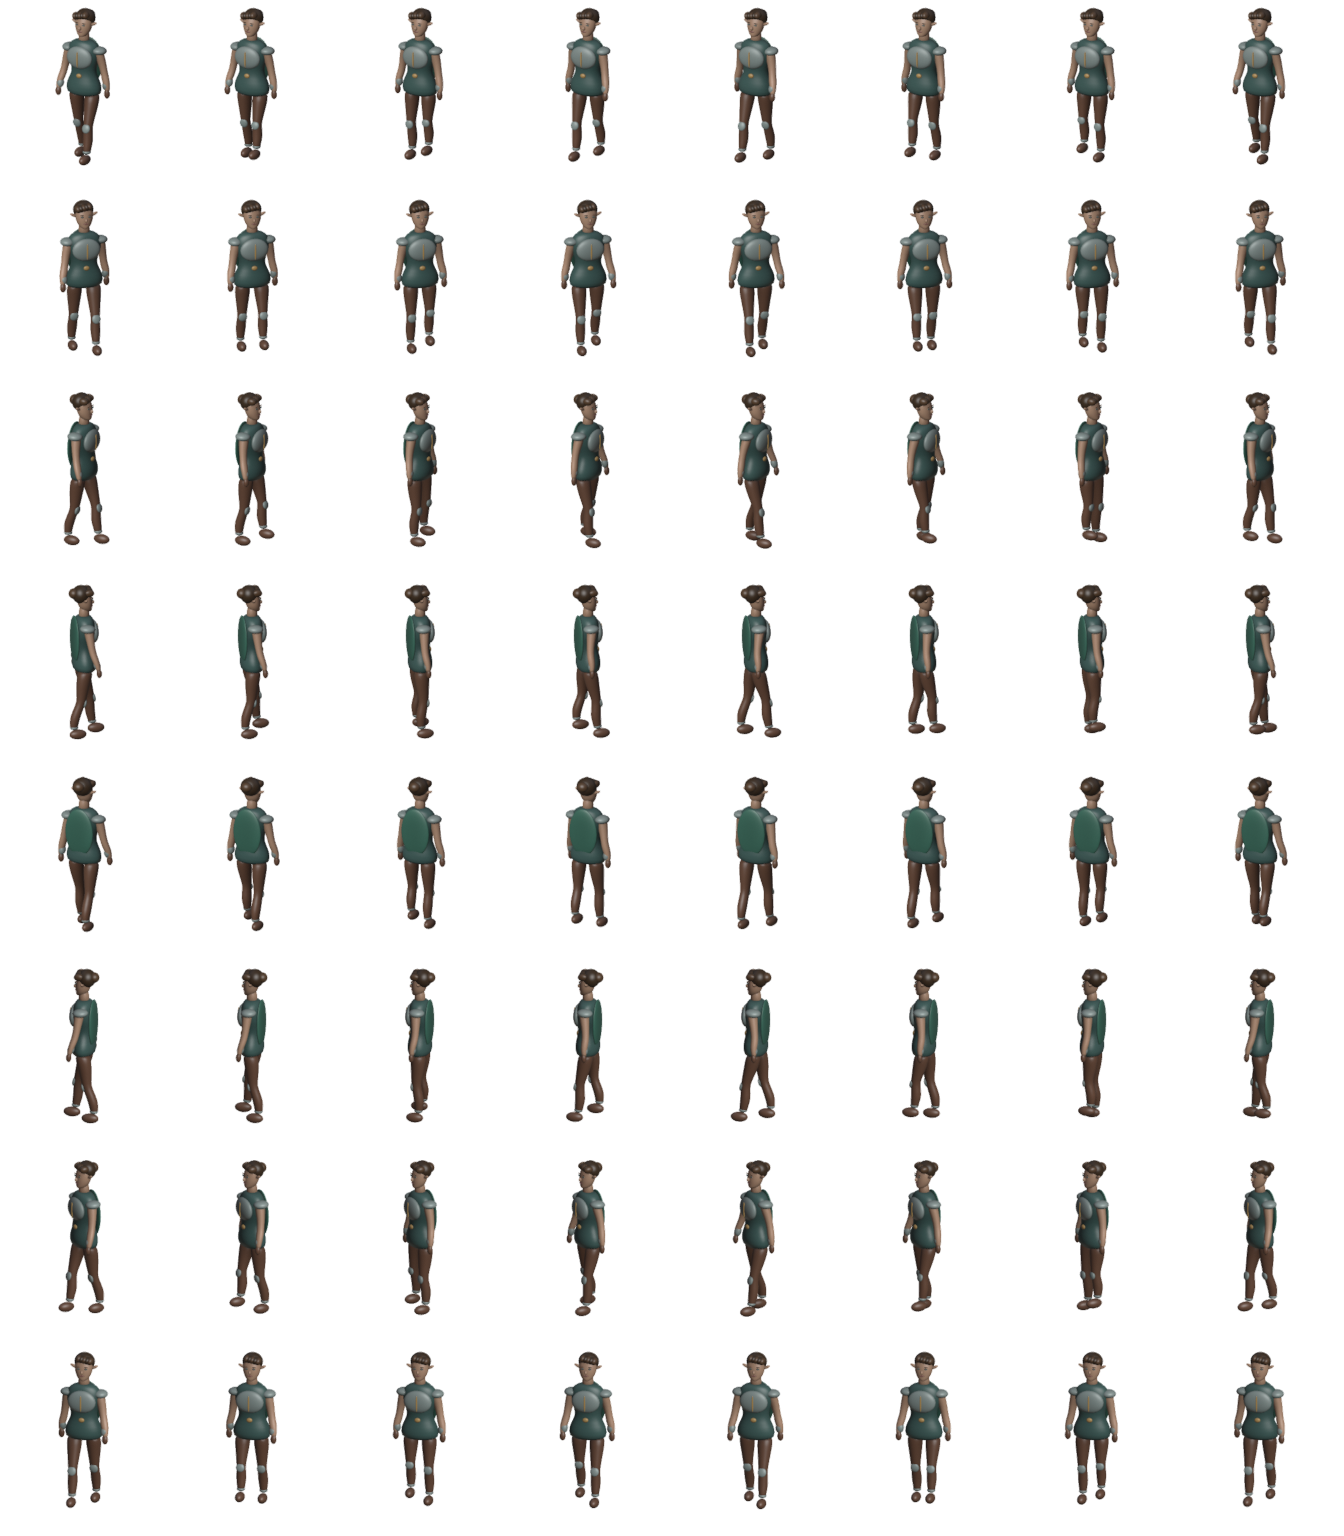
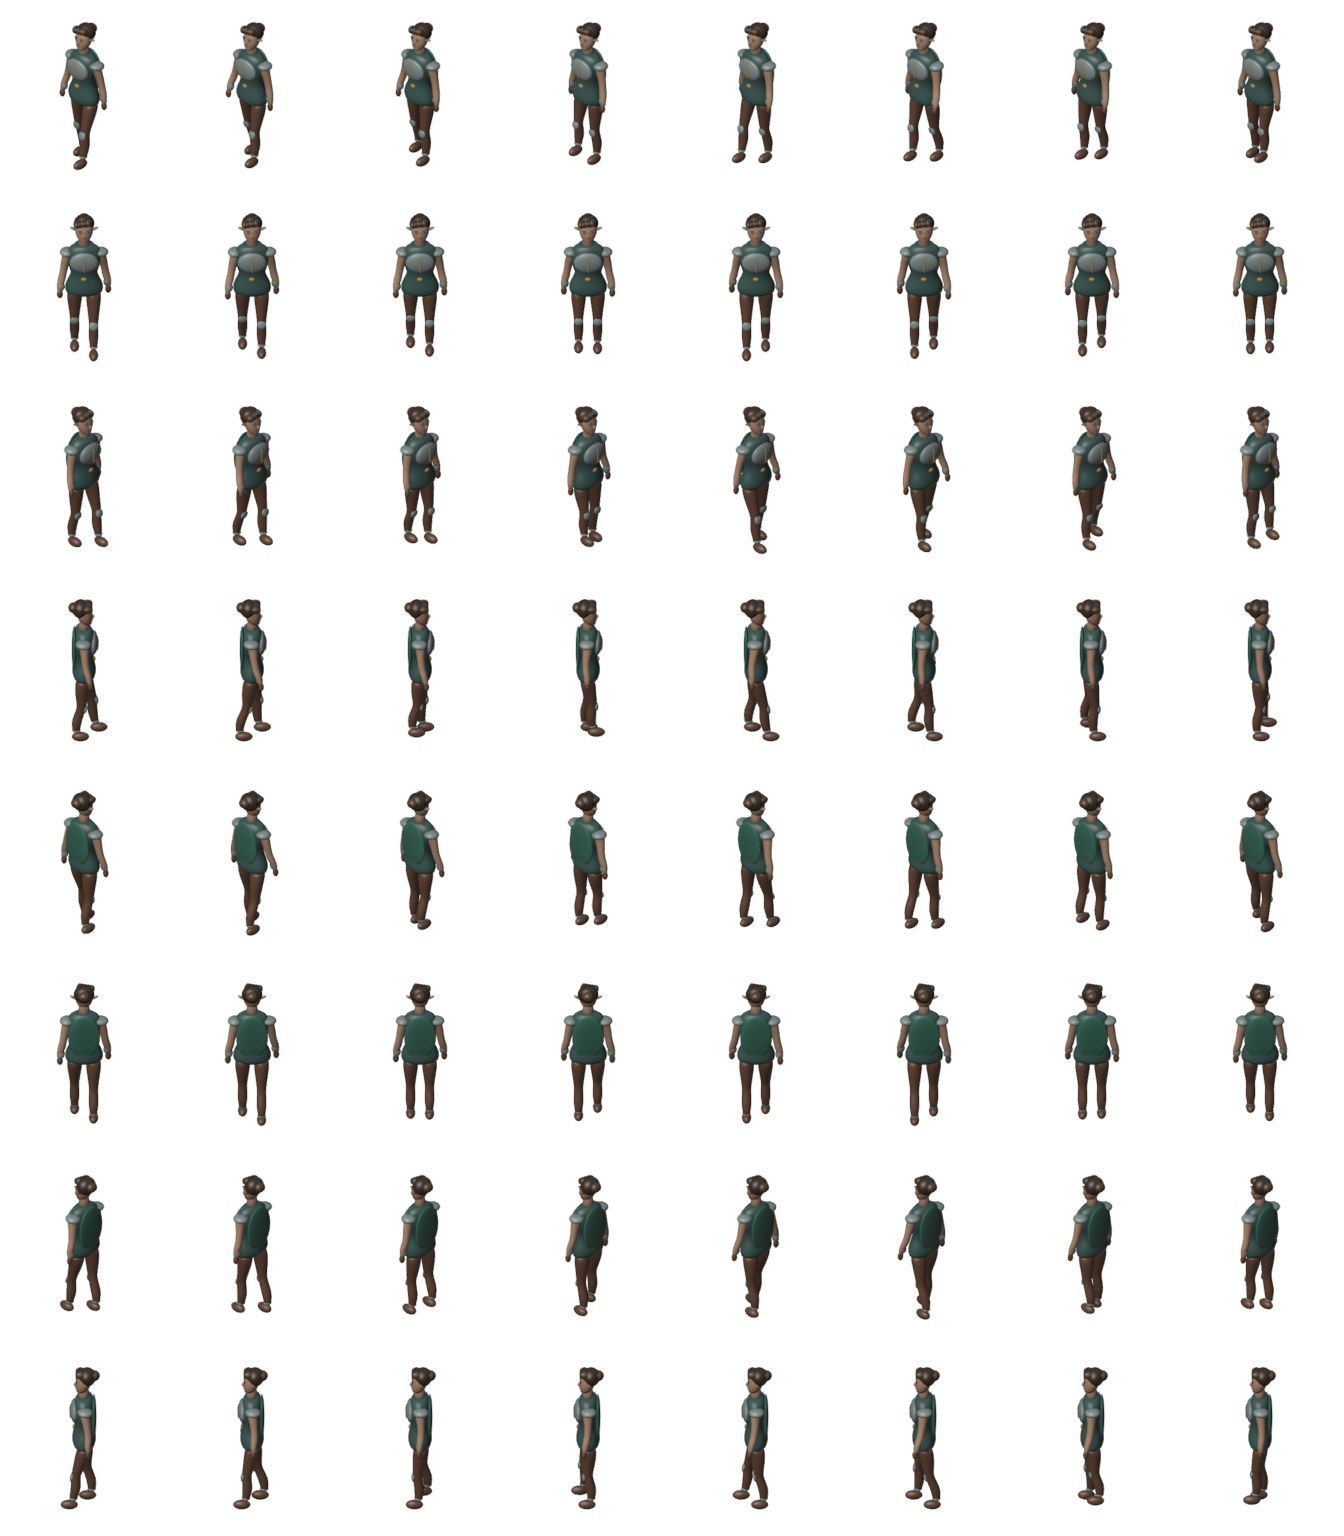
Align eight Free Roam facings and correct walk stride in v0.3.86

diff --git a/blender/create_character.py b/blender/create_character.py
@@ -138,13 +138,17 @@ world=bpy.context.scene.world
 world.color=(.32,.32,.32)
 bpy.ops.object.light_add(type="AREA",location=(2,-4,6))
 bpy.context.object.data.energy=600;bpy.context.object.data.shape="DISK";bpy.context.object.data.size=5
-bpy.ops.object.camera_add(location=(3.5,-6,3.2))
+# Match Free Roam: screen X is world X + Y and screen Y is world X - Y.
+# The ratio of the diamond half-height to its half-width gives the tilt.
+ground_ratio = 35.83905 / 70.0036
+tilt = math.asin(ground_ratio)
+bpy.ops.object.camera_add(location=(5,-5,1.13 + math.sqrt(50)*math.tan(tilt)))
 camera=bpy.context.object
 direction=Vector((0,0,1.13))-camera.location
 camera.rotation_euler=direction.to_track_quat("-Z","Y").to_euler()
 camera.data.type="ORTHO";camera.data.ortho_scale=2.69
 # Match the renderer's ground anchor at row 160 in each 192-pixel cell.
-camera.data.shift_y = -.05625
+camera.data.shift_y = (160-96)/192 - (1.13-.037)*math.cos(tilt)/2.69
 scene=bpy.context.scene;scene.camera=camera
 # Workbench spatial supersampling uses fresh samples for each still.
 scene.render.engine = "BLENDER_WORKBENCH"
@@ -171,19 +175,30 @@ for obj in bpy.data.objects:
 def unit(value):
     return min(1.0, max(0.0, value))
 
+def walk_foot(phase):
+    """Return fore-aft offset and lift using the game's stance/swing convention."""
+    cycle = (phase / math.tau) % 1.0
+    stance = .64
+    if cycle < stance:
+        return .5 - cycle/stance, 0.0
+    t = (cycle - stance)/(1 - stance)
+    return -.5 + t*t*(3 - 2*t), math.sin(math.pi*t)**2
+
+
 def pose(mode, phase):
     for obj, limb, neutral, inverse in meshes:
         left = "left" in limb
         swing = phase + (math.pi if left else 0.0)
+        along, lift = walk_foot(swing) if mode == "walk" else (0.0, 0.0)
         for vertex, base in zip(obj.data.vertices, neutral):
             point = base.copy()
             if mode == "walk" and limb.startswith("leg"):
                 weight = 1.0 if limb.endswith("boot") else unit((1.04-base.z)/.80)
-                point.y -= .165*math.cos(swing)*weight
-                point.z += .095*max(0.0, math.sin(swing))*weight
+                point.y -= .33*along*weight
+                point.z += .095*lift*weight
             elif mode == "walk" and limb.startswith("arm"):
                 weight = unit((1.69-base.z)/.64)
-                point.y += .095*math.cos(swing)*weight
+                point.y += .19*along*weight
             elif mode == "punch" and limb == "arm_right":
                 reach = math.sin(math.pi*phase)*unit((1.69-base.z)/.64)
                 point.y -= .43*reach
@@ -193,7 +208,9 @@ def pose(mode, phase):
 
 # The editable source contains the neutral continuous-mesh figure.
 bpy.ops.wm.save_as_mainfile(filepath=os.path.abspath(os.path.join(out,variant+".blend")))
-for facing in (0,1,2,3,4):
+# Row zero faces world -Y. Rotation follows N, NE, E, SE, S, SW, W, NW.
+# Render the actual opposite views to preserve anatomy, lighting and punch handedness.
+for facing in range(8):
     root.rotation_euler.z=facing*math.pi/4
     for frame in range(1):
         pose("idle",0)
